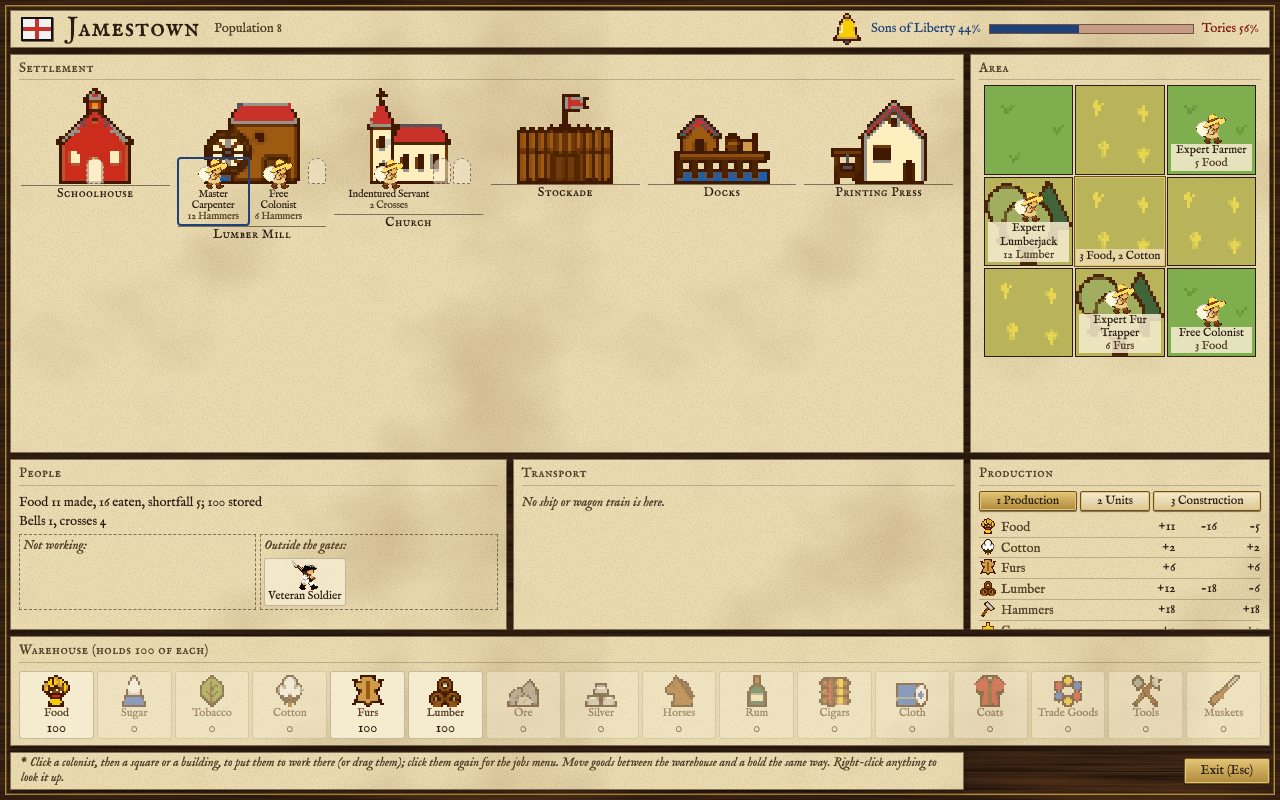
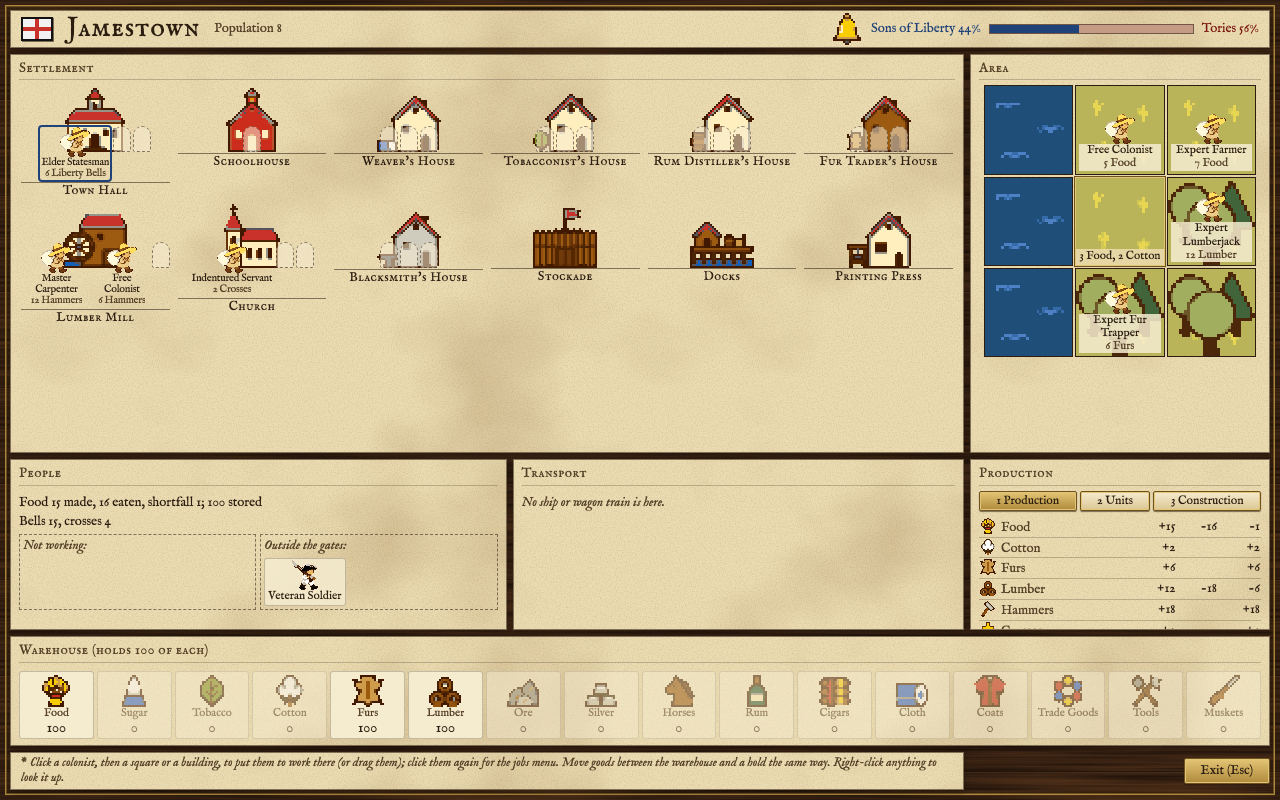
R-1026: fix the large colony: starting buildings, and a coast for its Docks
The Elder Statesman now has a Town Hall to work in, and Jamestown stands on the west coast so
its Docks can be there; colony-large, report-economic and hall-of-fame regenerated.

Changed region(s): [[0.0312, 0.0938, 1.0, 0.4688], [0.5312, 0.2812, 0.5938, 0.3438], [0.0312, 0.625, 0.0938, 0.6562]]

diff --git a/test/e2e/wiki-shots.spec.ts b/test/e2e/wiki-shots.spec.ts
@@ -1,4 +1,5 @@
 import { expect, test, type Locator, type Page } from '@playwright/test';
+import { STARTING_BUILDINGS } from '../../src/engine/data/colony';
 import { saveGame } from '../../src/engine/save';
 import type { Colonist, GameState, Settlement } from '../../src/engine/state';
 import { makeTile } from '../../src/engine/tile';
@@ -134,15 +135,16 @@ const village = (x: number, y: number): Settlement => ({ id: 'v1', tribe: 'sioux
 function largeColony(): GameState {
   const who = (id: string, job: Colonist['job'], profession: Colonist['profession'] = 'freeColonist'): Colonist => ({ id, profession, job, turns: 0 });
   let state = withColony(land(), {
-    id: 'james', owner: 'p0', x: 5, y: 6, name: 'Jamestown',
-    buildings: ['stockade', 'lumberMill', 'docks', 'schoolhouse', 'printingPress', 'church'],
+    // on the west coast, so that Docks can stand; the buildings every colony starts with, and six more
+    id: 'james', owner: 'p0', x: 2, y: 6, name: 'Jamestown',
+    buildings: [...STARTING_BUILDINGS, 'stockade', 'lumberMill', 'docks', 'schoolhouse', 'printingPress', 'church'],
     goods: { food: 100, lumber: 100, furs: 100 },
     construction: { kind: 'building', id: 'armory' }, hammers: 24,
     sol: { n: 4, d: 9 },
     colonists: [
       who('a', { kind: 'field', dx: 1, dy: -1, good: 'food' }, 'expertFarmer'),
-      who('b', { kind: 'field', dx: -1, dy: 0, good: 'lumber' }, 'expertLumberjack'),
-      who('c', { kind: 'field', dx: 1, dy: 1, good: 'food' }),
+      who('b', { kind: 'field', dx: 1, dy: 0, good: 'lumber' }, 'expertLumberjack'),
+      who('c', { kind: 'field', dx: 0, dy: -1, good: 'food' }),
       who('d', { kind: 'field', dx: 0, dy: 1, good: 'furs' }, 'expertFurTrapper'),
       who('e', { kind: 'work', trade: 'carpenter' }, 'masterCarpenter'),
       who('f', { kind: 'work', trade: 'carpenter' }),
@@ -151,7 +153,7 @@ function largeColony(): GameState {
     ],
   });
   state = withColony(state, { id: 'q', owner: 'fr', x: 16, y: 4, name: 'Quebec' });
-  state = withUnit(state, { id: 'guard', owner: 'p0', type: 'soldier', x: 5, y: 6, profession: 'veteranSoldier' });
+  state = withUnit(state, { id: 'guard', owner: 'p0', type: 'soldier', x: 2, y: 6, profession: 'veteranSoldier' });
   // a Congress at work, so its report has something to say
   const PEACE: Record<string, Record<string, 'peace' | 'war'>> = { p0: { fr: 'peace' }, fr: { p0: 'peace' } };
   // and the French met and at peace, so the foreign report has a stance to show
